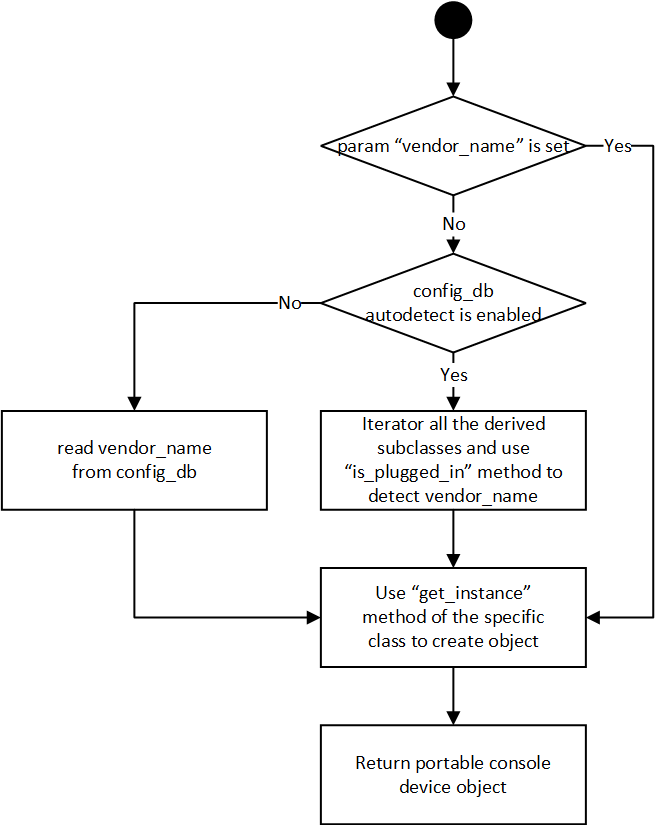
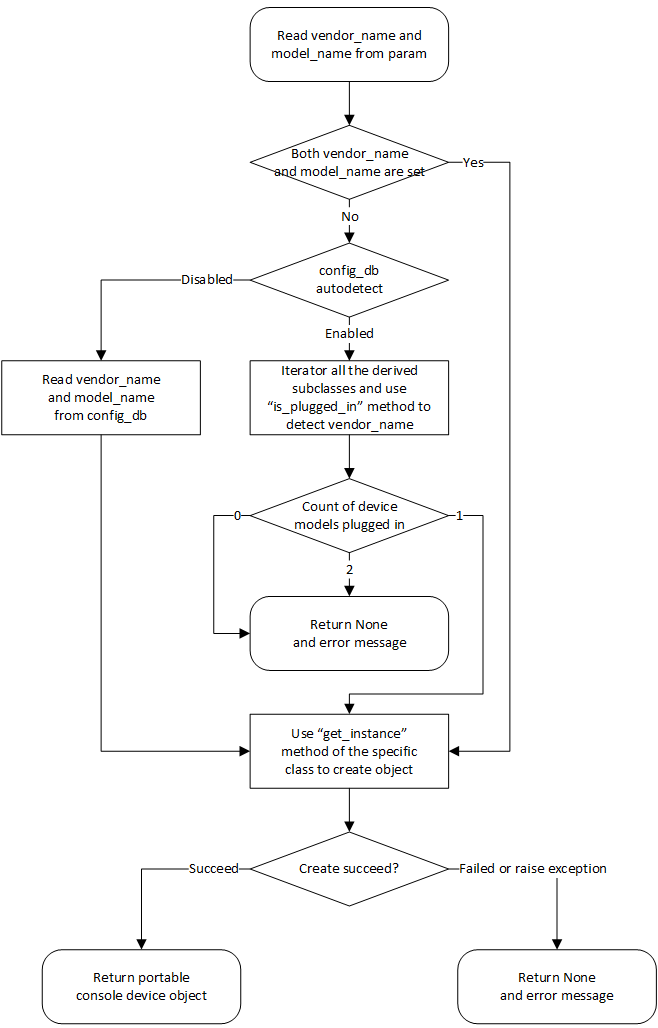
temporary commit

diff --git a/doc/console/Portable-Console-Switch-High-Level-Design.md b/doc/console/Portable-Console-Switch-High-Level-Design.md
@@ -12,27 +12,51 @@ In this design document, we provide the standard for adapting console devices to
 
 ## Assumption
 
-1. In current design, we only support **USB** console devices.
-2. Only **one** vendor's console devices can work on a SONiC switch at the same time. If console devices from multiple vendors are plugged in at the same time, which vendor's devices will work is an undefined behavior.
-3. Multiple console devices from the **same vendor** can be daisy-chained to extend more console ports.
+1. In the current design, we only support **USB** console devices.
+2. Only **one** vendor's console devices can work on a SONiC switch at the same time. If console devices from multiple vendors are plugged in at the same time, which vendor's devices will work is undefined behavior.
+3. Multiple console devices of the **same model** from the **same vendor** can be daisy-chained to extend more console ports. Whether daisy-chaining is supported and how many devices are supported in daisy-chain depends on the vendor's implementation.
 
 ## Setup Portable Console Device in SONiC
 
-After console device be plugged in the SONiC switch, we need to setup the console device in SONiC for further use. The setup process includes:
+After the console device is plugged into the SONiC switch, we need to set up the console device in SONiC for further use. The setup process includes:
 
   1. Install corresponding drivers.
-  2. Prepare a udev `.rules` file in `/etc/udev/rules.d/` which can map console interface from `/dev/ttyUSB<id>` to `/dev/console-<id>`.
+  2. Map console interface from `/dev/ttyUSB<id>` to `/dev/console-<id>`. (Usually done with the help of [udev](https://wiki.debian.org/udev))
   3. Any other necessary steps.
 
-Since we prefer the setup process complete after building SONiC image, a directory is provided to vendors to put all the files (eg. driver, udev `.rules`, etc.) they need. A `setup.sh` script file must be placed in this directory, which will be run during the SONiC image build process. After SONiC image has been built, all the necessary files will be installed.
+Since we prefer the setup process completed after building SONiC image, a directory is provided to vendors to put all the files (eg. driver, udev `.rules`, etc.) they need. A `setup.sh` script file must be placed in this directory, which will be run **during the SONiC image build process**. After SONiC image has been built, all the necessary files will be installed.
 
-For example, vendor can prepare a `<vendor_name>-<model_name>.rules` file in this directory, and add the following lines in `setup.sh`:
+![A flow diagram to explain the setup process](./Portable-Console-Switch-High-Level-Design/setup.png)
+
+For example, vendor can prepare a `50-<vendor_name>-<model_name>.rules` file in this directory, and add the following lines in `setup.sh`:
 
 ```bash
-cp ./<vendor_name>-<model_name>.rules /etc/udev/rules.d
+cp ./50-<vendor_name>-<model_name>.rules /etc/udev/rules.d
 ```
 
 Then SONiC will install the `.rules` correctly and load it when system boot.
+
+### Udev `.rules` File Priority
+
+*This part proposes conventions for vendors who use [udev](https://wiki.debian.org/udev) to map console interface.*
+
+Since [`man udev`](https://man7.org/linux/man-pages/man7/udev.7.html) mentions that "all rules files are collectively sorted and processed in lexical order", the name of a udev `.rules` file usually start with a number which specifies the priority. The larger the number, the higher the priority the udev `.rules` file. If there is no special need, set the priority of the `.rules` file to 50. Then the file name will look like `50-<vendor_name>-<model_name>.rules`.
+
+## CONFIG_DB Changes
+
+### CONSOLE_SWITCH_TABLE
+
+The `CONSOLE_SWITCH_TABLE` holds the configuration database for the purpose of console switch features. This table is filled by the management framework. Two new fields will be added to this table.
+
+```
+; Console switch feature table
+key = CONSOLE_SWITCH:console_mgmt
+
+; field = value
+autodetect = "enabled"/"disabled" ; "enabled" means factory function will auto detect which vendor's device is plugged in
+                                  ; "disabled" means factory function will read vendor_name from config_db
+vendor_name = 1*255 VCHAR         ; vendor name of console switch
+```
 
 ## Portable Console Device API Design
 
@@ -43,22 +67,23 @@ All the portable console device API code should be put in `/sonic_platform_commo
 ```
 sonic_console/
 ├── __init__.py
-├── base.py
+├── console_base.py
 ├── factory.py
-├── vendor_1
-│   └── vendor_1.py
-└── vendor_2
-    └── vendor_2.py
+├── microsoft
+│   ├── __init__.py
+│   └── console_simulator.py
+├── <vendor-name>
+    └── <vendor-name>_<model-name>.py
 ```
 
-Base class will be put in `base.py`. Classes implemented by vendor will be put in corresponding `<vendor-name>` directory. Factory function for creating concrete portable console device object will be put in `factory.py`. 
+Base class will be put in `console_base.py`. Factory function for creating concrete portable console device object will be put in `factory.py`. Classes implemented by vendor will be put in corresponding `<vendor-name>` directory. The implementations of different models of the same vendor should be put in the corresponding `<vendor-name>_<model-name>.py` files. For instance, the simulator implemented by Microsoft will be put in `microsoft/console_simulator.py`.
 
 ### Base Class Design
 
 Base class for portable console device is defined like below:
 
 ```python
-# base.py
+# console_base.py
 
 class PortableConsoleDeviceBase:
 
@@ -80,7 +105,16 @@ class PortableConsoleDeviceBase:
         This method is mandatory for factory method to create instance from manual configuration.
 
         :return: String, denoting vendor name of the `PortableConsoleDeviceBase` concrete subclass.
-                 eg. Celestica.
+        """
+        raise NotImplementedError
+
+    @classmethod
+    def get_model_name(cls):
+        """
+        Retrives the model name of the `PortableConsoleDeviceBase` concrete subclass.
+        This method is mandatory for factory method to create instance from manual configuration.
+
+        :return: String, denoting model name of the `PortableConsoleDeviceBase` concrete subclass.
         """
         raise NotImplementedError
 
@@ -107,7 +141,7 @@ class PortableConsoleDeviceBase:
         Retrieves the line number and virtual device list of portable console device.
 
         :return: A dict, the key is line number (integer, 1-based),
-                         the value is virtual device name (string).
+                         the value is virtual device path (string).
                  eg.
                  {
                      1: "/dev/console-1",
@@ -117,25 +151,95 @@ class PortableConsoleDeviceBase:
         """
         raise NotImplementedError
 
+    def get_num_psus(self):
+        """
+        Retrieves the number of power supply units available on the portable console device.
+
+        :return: An integer, the number of power supply units available on the portable console
+                 device.
+        """
+        raise NotImplementedError
+
     def get_all_psus(self):
         """
-        Retrieves all power supply units available on portable console device.
+        Retrieves all power supply units available on the portable console device.
 
         :return: A list of objects derived from `sonic_psu.pus_base.PsuBase` representing all
                  power supply units available on portable console device.
         """
         raise NotImplementedError
+
+    def get_psu(self, index):
+        """
+        Retrieves power supply unit represented by (0-based) index <index>
+
+        :param index: An integer, the index (0-based) of the power supply unit to retrieve
+        :return: An objects derived from `sonic_psu.pus_base.PsuBase` representing the specified
+                 power supply unit.
+        """
+        raise NotImplementedError
 ```
 
-Vendors can simply inherit the base class and implement the interface methods. For the methods cannot support, vendors can also raise a `NotImplementedError` exception.
+Vendors can simply inherit the base class and implement the interface methods. For the methods cannot support, vendors should raise a `TypeError` exception.
+
+> This exception (`TypeError`) may be raised by user code to indicate that an attempted operation on an object is not supported, and is not meant to be.
+> 
+> --[Built-in Exceptions — Python documentation](https://docs.python.org/3/library/exceptions.html#TypeError)
+
+For example, `PortableConsoleDeviceSimulator` will be implemented like:
+
+```python
+# microsoft/console_simulator.py
+from sonic_console.console_base import PortableConsoleDeviceBase
+
+class PortableConsoleDeviceSimulator(PortableConsoleDeviceBase):
+
+    def __init__(self):
+        pass
+
+    @classmethod
+    def is_plugged_in(cls):
+        return False
+
+    @classmethod
+    def get_vendor_name(cls):
+        return "Microsoft"
+
+    @classmethod
+    def get_model_name(cls):
+        return "Simulator"
+
+    @classmethod
+    def get_instance(cls):
+        return PortableConsoleDeviceSimulator()
+
+    def get_serial_number(self):
+        return "Microsoft-Simulator-S/N"
+
+    def get_virtual_device_list(self):
+        return {
+            1: "/dev/console-1",
+            2: "/dev/console-2",
+            # ...
+        }
+
+    def get_num_psus(self):
+        return 0
+
+    def get_all_psus(self):
+        return []
+
+    def get_psu(self, index):
+        return None
+```
 
 ### Factory Function Design
 
 Factory function `get_portable_console_device` supports three ways to identify which subclass should be used to create portable console device object:
 
 1. Use function parameter `vendor_name` to specify which subclass to use. (Highest priority)
-2. If `autodetect` is set to `enabled` in `config_db`, then use `vendor_name` in `config_db` to specify which subclass to use. (Second priority)
-3. Use `is_plugged_in` method of all the derived subclass to detect which vendor's device is plugged in, and use the corresponding subclass. (Lowest priority but **recommended**)
+2. If `autodetect` is set to `disabled` in `config_db`, then use `vendor_name` in `config_db` to specify which subclass to use. (Second priority)
+3. If `autodetect` is set to `enabled`, then use `is_plugged_in` method of all the derived subclass to detect which vendor's device is plugged in, and use the corresponding subclass. (Lowest priority but **recommended**)
 
 The flow chart below describes how `get_portable_console_device` function works:
 
@@ -143,18 +247,21 @@ The flow chart below describes how `get_portable_console_device` function works:
 
 As mentioned above, only the third way is our recommendation, which can automatically find out which vendor's device is plugged in and create the corresponing object. The first and second ways are reserved for more flexibility, so they are given higher priority.
 
-## CONFIG_DB Changes
+## SONiC CLI Design
 
-### CONSOLE_SWITCH_TABLE
+### show console
 
-The `CONSOLE_SWITCH_TABLE` holds the configuration database for the purpose of console switch features. This table is filled by the management framework. Two new fields will be added to this table.
+#### show console summary
 
-```
-; Console switch feature table
-key = CONSOLE_SWITCH:console_mgmt
+#### show console vendor-name
 
-; field = value
-autodetect = "enabled"/"disabled" ; "enabled" means factory function will auto detect which vendor's device is plugged in
-                                  ; "disabled" means factory function will read vendor_name from config_db
-vendor_name = 1*255 VCHAR         ; vendor name of console switch
-```
+#### show console serial-number
+
+### show psu
+
+### config(?)
+
+## Reference
+
+* [udev - Linux dynamic device management](https://wiki.debian.org/udev)
+* [udev(7) - Linux manual page](https://man7.org/linux/man-pages/man7/udev.7.html)
